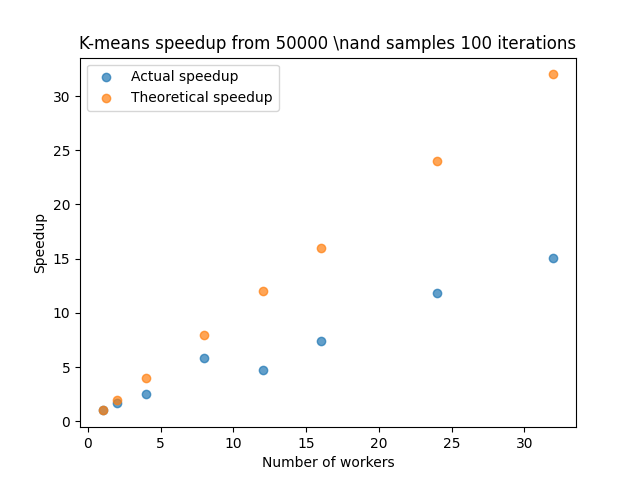
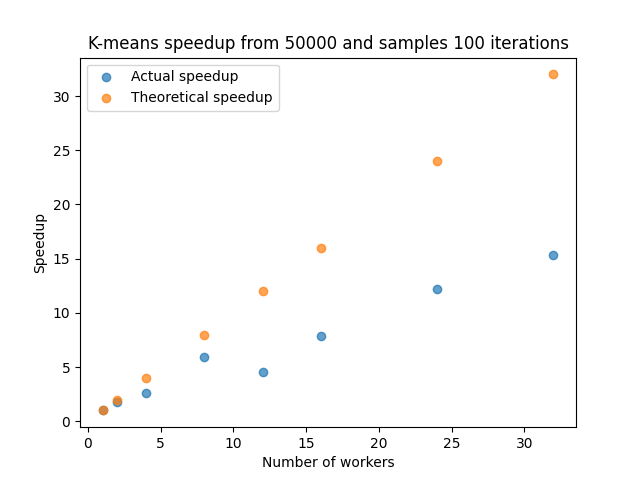
Adds time print in problem 1 and changes title in figure

diff --git a/assignment3/speedup_plotter.py b/assignment3/speedup_plotter.py
@@ -5,7 +5,7 @@ import argparse
 from matplotlib import pyplot as plt
 
 #Example usage of this script:
-#python speedup_plotter.py --command 'problem1.py -s 50000 -i 100' --cluster 'cpu-markov'  --w_argument='-w' --w_list '1 2 4 8 12 16 24 32' --time 'Total time:' --slurm_cores +1 --figure 'fig.png' --title 'K-means speedup from 50000 \nand samples 100 iterations'
+#python speedup_plotter.py --command 'problem1.py -s 50000 -i 100' --cluster 'cpu-markov'  --w_argument='-w' --w_list '1 2 4 8 12 16 24 32' --time 'Total time:' --slurm_cores +1 --figure 'fig.png' --title 'K-means speedup from 50000 and samples 100 iterations'
 #This produces a figure called fig.png that plots the speedups for the python file problem1.py ran with fixed parameters:
 #-s 50000 and -i 100 and with different worker parameters -w of 1, 2, 4, 8, 12, 16, 24, 32
 #The measured time is fount in the output file on the line starting with 'Total time:'

diff --git a/assignment3/problem1.py b/assignment3/problem1.py
@@ -123,6 +123,7 @@ def computeClustering(args):
     end_time = time.time()
     logging.info("Clustering complete in %3.2f [s]" % (end_time - start_time))
     print(f"Total variation {total_variation}")
+    print(f"Total time: {end_time - start_time}")
 
     if args.plot: # Assuming 2D data
         fig, axes = plt.subplots(nrows=1, ncols=1)
